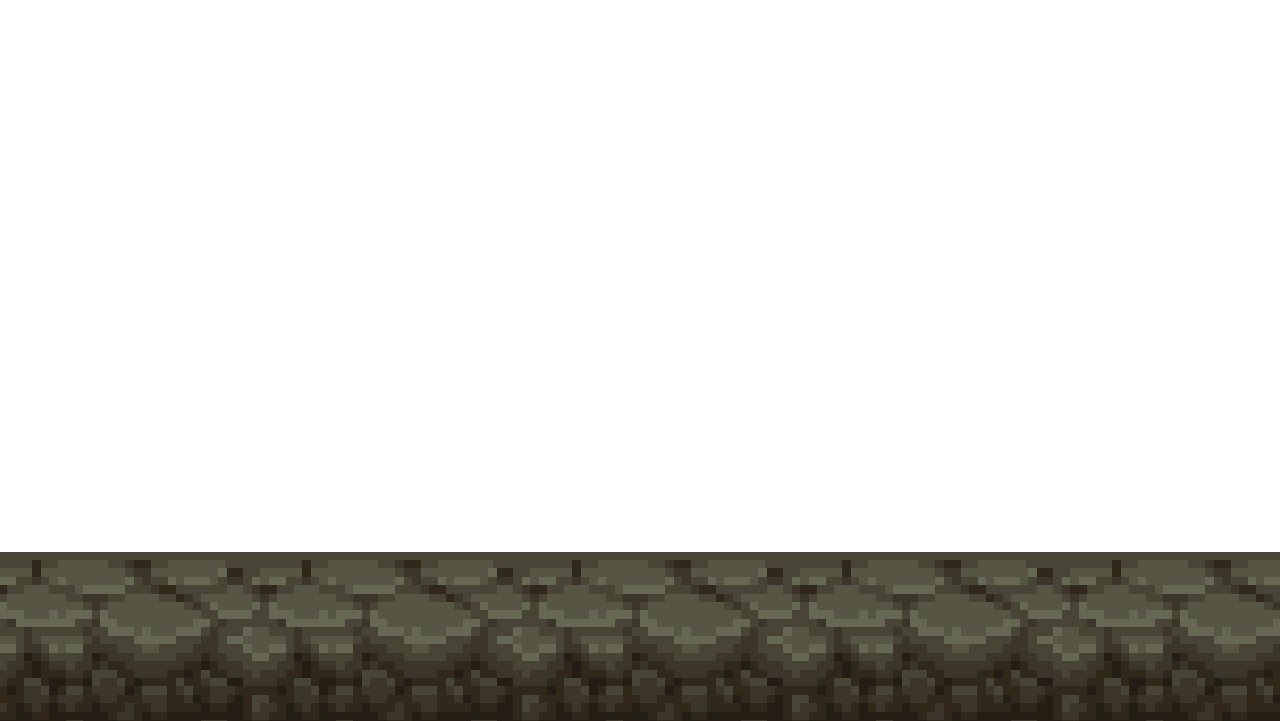
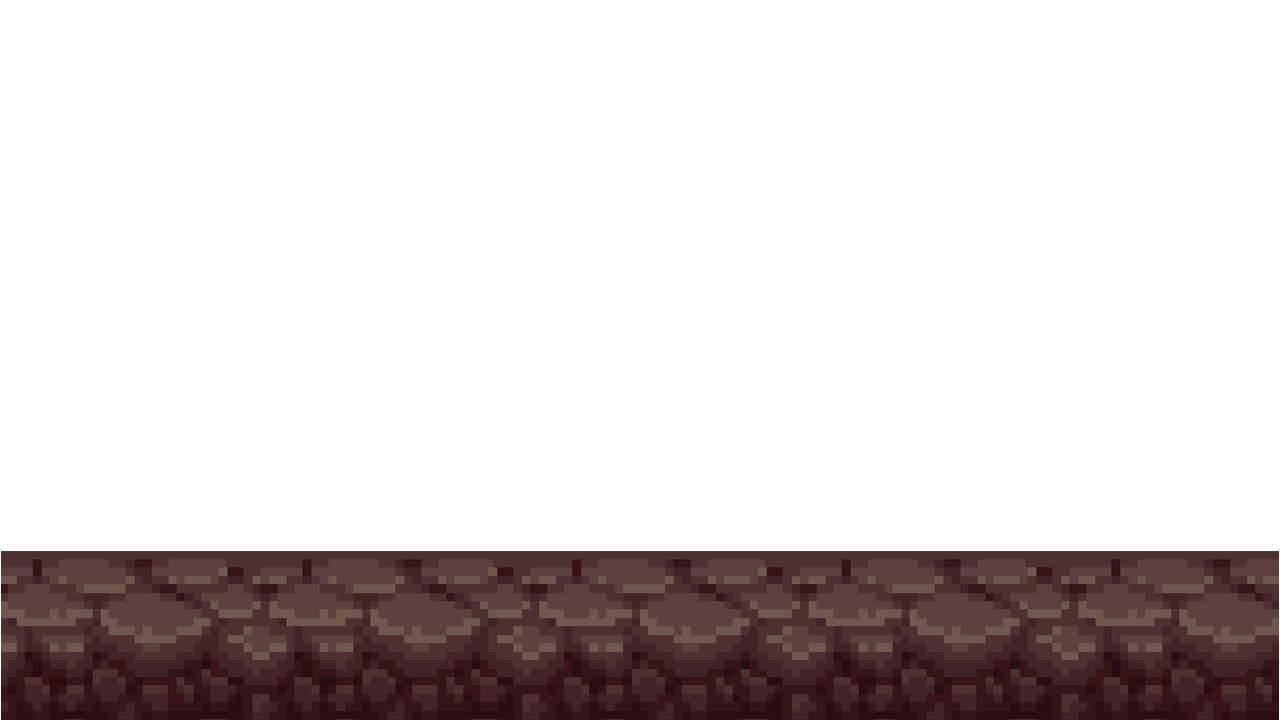
Comit 1

diff --git a/main.py b/main.py
@@ -3,7 +3,7 @@ from Entity import Entity
 from Player import Player
 from Enemy import Enemy
 from Loading import LoadingScreen
-
+from buttons import Buttons
 pygame.init()
 
 
@@ -37,7 +37,8 @@ retry_rect = retry_text.get_rect()
 retry_rect.midtop = (W // 2, H // 2)
 
 
-
+MenuBG = pygame.image.load('images/MENUBG.png').convert_alpha()
+GameBG = pygame.image.load('images/GameBG.png').convert_alpha()
 #Вступительный фон
 OpenBG = pygame.image.load('images/Вступительный фон 1.png')
 OpenBG = pygame.transform.scale(OpenBG, (1280, 720)).convert_alpha()
@@ -116,7 +117,7 @@ def lvl2():
 
         screen.fill((92, 148, 252))
         bg_sound1.play()
-        screen.blit(OpenBG, (0, H - GROUND_H))
+        screen.blit(MenuBG, (0, H - GROUND_H))
 
 
 
@@ -149,7 +150,7 @@ def lvl3():
         score = 0
         clock.tick(FPS)
 
-        screen.fill(('Red'))
+        screen.blit(GameBG, (0, H - GROUND_H))
 
         screen.blit(ground_image, (0, H - GROUND_H))
         score_text = font_large.render(str(score), True, (255, 255, 255))
@@ -190,7 +191,7 @@ def lvl3():
 
 
 
-            score_rect.midtop = (W // 2, 5)
+            score_rect.midtop = (W // 2, 3)
 
         screen.blit(score_text, score_rect)
         pygame.display.flip()

diff --git a/Enemy.py b/Enemy.py
@@ -25,7 +25,7 @@ player_dead_image = pygame.image.load('images/Player/DEAD PLAYER 2.png').convert
 player_dead_image = pygame.transform.scale(player_dead_image, (180, 222))
 
 #Игрок
-player_image = pygame.image.load('images/Player test R/Player 2.png').convert_alpha()
+player_image = pygame.image.load('images/Player/Player 2.png').convert_alpha()
 player_image = pygame.transform.scale(player_image, (180, 222))
 
 
